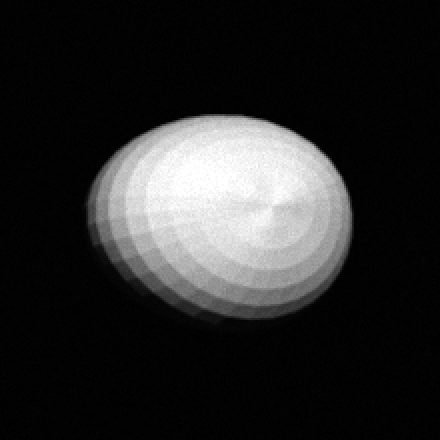
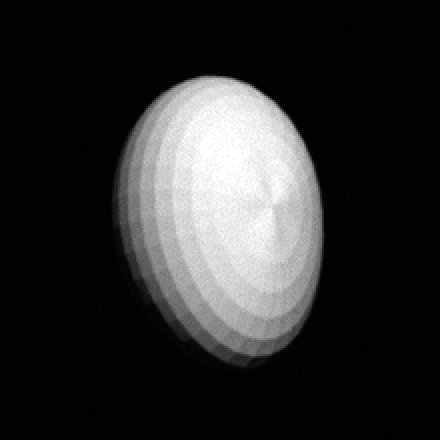
fix: align mesh renderer axis convention with the ellipsoid
The polyhedral-mesh renderer mapped axis1 to the horizontal (u) extent and
axis2 to the vertical (v), the transpose of the ellipsoid renderer (axis1
-> v, axis2 -> u). An ellipsoid and a mesh declared with the same axes
therefore came out oriented 90 degrees apart. Swap the first two semi-axis
components in render_polyhedral_body so body x is scaled by axis2 and body
y by axis1; the projection and illumination conventions are unchanged, so
axis1 now sets the vertical extent in both renderers.

This transposes every rendered mesh, so re-bless the six mesh regression
baselines (no ellipsoid scene changes), regenerate the mesh gallery and
report scene images, and refresh the mesh recovery table and sweep
figures. Navigation recovery is preserved: render and prediction move
together, and the planted-offset tests still recover within tolerance
(most mesh scenes land closer to the planted offset than before).

The corrected geometry makes a Y-axis tumble degrade the limb gently (to a
confidently-wrong ~4 px fix that does not self-flag), so the pose-
disagreement sweep records that monotonic rise and the per-technique
behavioral test switches to a wrong in-plane roll -- which swings the
silhouette decisively (the limb self-flags spurious, tens of pixels off)
while the pose-free blob holds.

Closes #156

Changed region(s): [[0.1773, 0.1477, 0.8273, 0.8568]]

diff --git a/tests/integration/test_sim_irregular_pose.py b/tests/integration/test_sim_irregular_pose.py
@@ -1,24 +1,27 @@
-"""Pose-disagreement behavioral test (B7 scenario 3).
+"""Pose-disagreement behavioral test for an irregular body.
 
 A chaotic rotator's orientation is genuinely unknown, so the useful question is
 what the technique ladder does when the navigator's assumed pose is wrong.  This
 test renders one irregular body at its true pose and navigates it twice: once
 with the predicted pose agreeing with the render (the correct-pose body) and once
-with the predicted pose swung 25 degrees away (the wrong-pose body).  It asserts
-the *decision*, per technique, not an exact recovery:
+with the predicted body given a wrong in-plane roll (the wrong-pose body).  It
+asserts the *decision*, per technique, not an exact recovery:
 
 * The orientation-dependent ``BodyLimbNav`` recovers the planted offset at the
-  correct pose but lands far off at the wrong pose -- a confidently-wrong limb the
-  navigator should not trust (and indeed flags spurious).
+  correct pose but lands far off at the wrong pose -- a wrong-pose limb the
+  navigator should not trust (here it also self-flags spurious).
 * The orientation-free ``BodyBlobNav`` stays accurate at both poses, because the
   body's bulk shape is a centrally-symmetric triaxial ellipsoid whose
   lit-weighted centroid barely moves under rotation.
 
-The assertion is per-technique because the ensemble's demote-to-pose-free choice
-is confidence-driven and the confidence alphas are uncalibrated placeholders; the
+A wrong in-plane roll is used because it swings the elongated body's silhouette
+the most for the least centroid motion, giving the cleanest separation between
+the limb (which depends on the silhouette) and the blob (which does not).  The
+assertion is per-technique because the ensemble's demote-to-pose-free choice is
+confidence-driven and the confidence alphas are uncalibrated placeholders; the
 geometry/error gap asserted here is real and placeholder-independent.  The fused
 "prefers the pose-free answer" claim only becomes clean after the real-data
-calibration (issue #153).
+confidence calibration.
 """
 
 from __future__ import annotations
@@ -43,8 +46,9 @@ _SCENE = (
     / 'phase_sweep_irregular_body'
     / 'hyperion_pose_disagree.yaml'
 )
-# The wrong-pose body predicts the mesh swung 25 degrees in Y from the true 35.
-_WRONG_POSE_Y_DEG = 60.0
+# The wrong-pose body predicts the mesh with a 20-degree in-plane roll (the Z
+# Euler angle) added to the true pose [10, 35, 0].
+_WRONG_POSE_ROLL_DEG = 20.0
 
 
 def _navigate(sim_params: dict[str, Any], technique: str) -> Any:
@@ -76,7 +80,7 @@ def _params(*, wrong_pose: bool) -> dict[str, Any]:
     params = load_sim_scene(_SCENE).to_sim_params()
     if wrong_pose:
         params = copy.deepcopy(params)
-        params['bodies'][0]['nav_override']['pose_euler_deg'] = [10.0, _WRONG_POSE_Y_DEG, 0.0]
+        params['bodies'][0]['nav_override']['pose_euler_deg'] = [10.0, 35.0, _WRONG_POSE_ROLL_DEG]
     return params
 
 
@@ -86,7 +90,7 @@ def test_correct_pose_limb_is_accurate() -> None:
 
 
 def test_wrong_pose_limb_degrades() -> None:
-    """A 25-degree pose disagreement drives the limb far off the planted offset."""
+    """A wrong in-plane roll drives the limb far off the planted offset."""
     assert _technique_error_px(_params(wrong_pose=True), 'BodyLimbNav') > 4.0
 
 

diff --git a/tests/integration/test_sim_sweeps.py b/tests/integration/test_sim_sweeps.py
@@ -154,22 +154,31 @@ def test_pose_disagreement_starts_clean() -> None:
 
 
 def test_pose_disagreement_limb_error_grows() -> None:
-    """A small pose disagreement already grows the limb fit error."""
+    """The limb fit error grows monotonically as the predicted pose drifts."""
     rows = _rows('pose_disagreement')
-    assert rows[1].offset_error_px is not None
-    assert rows[0].offset_error_px is not None
-    assert rows[1].offset_error_px > rows[0].offset_error_px
+    first = rows[0].offset_error_px
+    second = rows[1].offset_error_px
+    last = rows[-1].offset_error_px
+    assert first is not None
+    assert second is not None
+    assert last is not None
+    assert second > first
+    assert last > first + 1.0
+    assert last > 2.0
 
 
-def test_pose_disagreement_large_disagreement_fails() -> None:
-    """At a large pose disagreement the limb no longer produces a trusted fix.
+def test_pose_disagreement_limb_is_confidently_wrong() -> None:
+    """At the largest disagreement the limb is several pixels off yet still 'success'.
 
-    The pinned limb is flagged spurious once the predicted silhouette swings far
-    off the rendered one, so the fused (limb-only) status degrades to failed --
-    the navigator declining to trust the confidently-wrong limb.
+    The pinned limb does not self-flag across this tumble range -- it returns a
+    confidently-wrong fix (a multi-pixel error at unchanged confidence), which is
+    why the per-technique demote decision (test_sim_irregular_pose) cannot rely on
+    the limb's own status and compares it against the pose-free blob instead.
     """
     rows = _rows('pose_disagreement')
-    assert rows[-1].status == 'failed'
+    assert rows[-1].status == 'success'
+    assert rows[-1].offset_error_px is not None
+    assert rows[-1].offset_error_px > 2.0
 
 
 # The per-technique dense and wide offset sweeps (``*_offset_fine`` /

diff --git a/src/nav/sim/sim_body_polyhedral.py b/src/nav/sim/sim_body_polyhedral.py
@@ -201,7 +201,12 @@ def render_polyhedral_body(
     height = size_v * aa_scale
     width = size_u * aa_scale
 
-    semi = np.array(semi_axes_px, dtype=np.float64) * aa_scale
+    # Match the ellipsoid renderer's axis convention: axis1 (semi_axes_px[0])
+    # sets the vertical (v) extent and axis2 the horizontal (u) extent.  The
+    # projection below sends body x -> u and body y -> v, so scale body x by
+    # axis2 and body y by axis1.
+    axis1_semi, axis2_semi, axis3_semi = np.array(semi_axes_px, dtype=np.float64) * aa_scale
+    semi = np.array([axis2_semi, axis1_semi, axis3_semi])
     rot = _rotation_matrix(pose_euler_deg)
     verts_cam = (mesh.vertices * semi) @ rot.T
     px = center[1] * aa_scale + verts_cam[:, 0]

diff --git a/docs/simulator_report/simulator_report.rst b/docs/simulator_report/simulator_report.rst
@@ -662,30 +662,31 @@ genuinely unknown orientation testable.
    * - ``planted_offset_irregular``
      - BodyDiscCorrelateNav (mesh = mesh)
      - (1.43, -0.61) px
-     - (1.43, -0.62) px
-     - 0.01 px
+     - (1.43, -0.61) px
+     - 0.00 px
    * - ``planted_offset_limb_mesh``
      - BodyLimbNav (mesh = mesh)
      - (1.43, -0.61) px
-     - (1.43, -0.62) px
-     - 0.16 px
+     - (1.26, -0.53) px
+     - 0.19 px
    * - ``planted_offset_blob_mesh_crescent``
      - BodyBlobNav (mesh, 120 deg)
      - (1.43, -0.61) px
-     - (1.43, -0.62) px
-     - 0.16 px
+     - (1.24, -0.52) px
+     - 0.21 px
    * - ``planted_offset_shapemismatch``
      - full ensemble (predict ellipsoid)
      - (1.43, -0.61) px
-     - (1.81, -0.84) px
-     - 0.44 px
+     - (1.99, -0.90) px
+     - 0.63 px
 
 When the predicted geometry matches the rendered mesh, the mesh disc, mesh limb,
 and mesh crescent recover the planted offset as tightly as their ellipsoid
-counterparts (0.01-0.16 px). The fourth row is the shape-mismatch case: the frame
+counterparts (0.00-0.21 px). The fourth row is the shape-mismatch case: the frame
 renders a mildly irregular mesh but the navigator predicts its smooth
 (ellipsoidal) limit at the same pose, and the body still navigates -- the disc
-correlation aligns the two filled silhouettes and recovers to under half a pixel.
+correlation aligns the two filled silhouettes and recovers to within
+two-thirds of a pixel.
 
 Shape mismatch vs irregularity
 ------------------------------
@@ -701,13 +702,13 @@ term is meant to capture.
 
    Recovered-offset error (red) and fused confidence (blue) vs rendered mesh
    lumpiness, with the prediction pinned to the zero-relief limit. The bias grows
-   from ~0.01 px (no mismatch) to ~6 px at heavy relief while the confidence falls
-   from ~0.39 to ~0.22 -- the navigator both mis-locates the body and reports
+   from ~0.00 px (no mismatch) to ~4 px at heavy relief while the confidence falls
+   from ~0.39 to ~0.28 -- the navigator both mis-locates the body and reports
    lower confidence as the shape diverges.
 
-The recovered error grows monotonically with relief (0.01, 0.45, 1.14, 3.01,
-4.03, 5.98 px at lumpiness 0.0 through 0.5) and the fused confidence falls in step
-(0.39 down to 0.22). The body keeps navigating to a ``success`` status throughout
+The recovered error grows monotonically with relief (0.00, 0.63, 1.33, 2.17,
+4.02, 4.03 px at lumpiness 0.0 through 0.5) and the fused confidence falls in step
+(0.39 down to 0.28). The body keeps navigating to a ``success`` status throughout
 -- the disc correlation still locks onto the silhouette -- but the answer drifts,
 which is exactly the failure an irregular-body confidence penalty must learn to
 distrust.
@@ -725,17 +726,19 @@ limb fit:
    :alt: Mesh-limb recovery error vs predicted-pose disagreement.
 
    Pinned-limb recovered-offset error vs the predicted pose's disagreement with
-   the true (rendered) pose. The limb solves at 0 deg (0.22 px) and 10 deg
-   (2.19 px) disagreement, then self-flags spurious and returns no fix (dashed
-   lines) past ~20 deg -- the navigator declining to trust a confidently-wrong
-   limb.
+   the true (rendered) pose (a tumble about the body's long axis). The limb keeps
+   returning a fix across the swept range, but its error climbs from 0.27 px at
+   the true pose to 4.2 px at a 45 deg disagreement -- a confidently-wrong limb
+   that does not self-flag here.
 
-The limb error climbs from 0.22 px at the true pose to 2.19 px at a 10 deg
-disagreement, and past ~20 deg the technique flags itself spurious and produces no
-fix at all. The pose-free blob centroid, by contrast, stays accurate on the same
-wrong-pose body, because a centrally-symmetric (low-relief triaxial) body's
-lit-weighted centroid barely moves under rotation. This is the behaviour the
-``test_sim_irregular_pose`` per-technique test pins: on a wrong-pose body the
+The limb error climbs monotonically from 0.27 px at the true pose to 4.2 px at a
+45 deg tumble, all the while still reporting ``success`` at ~0.66 confidence: it
+does not self-flag in this range. A wrong in-plane roll degrades it far more
+sharply -- tens of pixels, and there it does self-flag spurious. The pose-free
+blob centroid, by contrast, stays accurate on the same wrong-pose body, because a
+centrally-symmetric (low-relief triaxial) body's lit-weighted centroid barely
+moves under rotation. This is the behaviour the ``test_sim_irregular_pose``
+per-technique test pins: on a wrong-pose body the
 system should demote from the confidently-wrong limb to the orientation-free
 blob.
 
@@ -817,11 +820,11 @@ Summary
   field to ~0.005 px, the most accurate of any technique.
 * Irregular (mesh) bodies navigate as accurately as ellipsoids when the predicted
   geometry matches the rendered one (mesh disc, limb, and crescent all recover to
-  0.01-0.16 px). When the navigator predicts the wrong shape the centroid bias
-  grows with the rendered relief (to ~6 px) and the confidence falls; when it
-  predicts the wrong pose the limb degrades and self-flags spurious while the
-  pose-free blob holds -- the demote-to-pose-free behaviour a chaotic rotator
-  needs.
+  0.00-0.21 px). When the navigator predicts the wrong shape the centroid bias
+  grows with the rendered relief (to ~4 px) and the confidence falls; when it
+  predicts the wrong pose the limb degrades to a confidently-wrong fix (or, for a
+  wrong in-plane roll, far enough that it self-flags) while the pose-free blob
+  holds -- the demote-to-pose-free behaviour a chaotic rotator needs.
 * The sweeps show the expected qualitative behaviour: navigation degrades to a
   clean failure past the noise cliff, the resolved body recovers across the full
   phase range with no mid-phase accuracy penalty, and the primary technique walks

diff --git a/docs/dev_guide/dev_guide_simulator.rst b/docs/dev_guide/dev_guide_simulator.rst
@@ -401,15 +401,10 @@ controls ``crater_fill``, ``crater_min_radius``, ``crater_max_radius``,
 
 .. note::
 
-   **Axis convention.** The ellipsoid renderer maps ``axis1`` to the vertical
-   (``v``) extent and ``axis2`` to the horizontal (``u``) extent; the mesh
-   renderer maps ``axis1`` to the body-frame ``x`` axis, which projects to the
-   horizontal (``u``) extent. The two renderers are therefore transposed relative
-   to one another, so an ellipsoid and a mesh with identical ``axis1``/``axis2``
-   are oriented differently (compare the first two ingredient panels above). This
-   does not affect navigation accuracy because a single comparison always renders
-   and predicts with the *same* renderer; it matters only when reading absolute
-   pixel extents off the axes.
+   **Axis convention.** Both renderers use the same mapping: ``axis1`` is the
+   vertical (``v``) extent and ``axis2`` the horizontal (``u``) extent. An
+   ellipsoid and a mesh declared with identical ``axis1``/``axis2`` are oriented
+   the same way, so the two are interchangeable for the same geometry.
 
 **Render geometry vs navigation geometry.** By default the navigator predicts the
 body from the same parameters the renderer drew, so it knows the truth. A body

diff --git a/docs/dev_guide/dev_guide_navigation_models_body_simulated.rst b/docs/dev_guide/dev_guide_navigation_models_body_simulated.rst
@@ -118,10 +118,9 @@ irregular-body scenarios exercise:
   (ellipsoidal) limit by overriding ``mesh_lumpiness`` to ``0.0`` at the same
   pose. The only residual is shape; the disc correlation still aligns the two
   filled silhouettes and the recovered centroid bias grows with the rendered
-  relief. Realising the ellipsoidal prediction as the smooth limit
-  of the mesh keeps both silhouettes on one renderer with a consistent axis and
-  pose convention, so the residual is pure shape mismatch rather than a
-  renderer-convention skew.
+  relief. Realising the ellipsoidal prediction as the smooth limit of the mesh
+  keeps both silhouettes on one renderer, so the residual is purely the shape
+  mismatch under test.
 - **Pose disagreement** -- render the mesh at the true pose, predict the same
   mesh at a different ``pose_euler_deg``. The wrong-pose silhouette boundary
   drives the limb distance-transform fit to a confidently-wrong offset, while the
